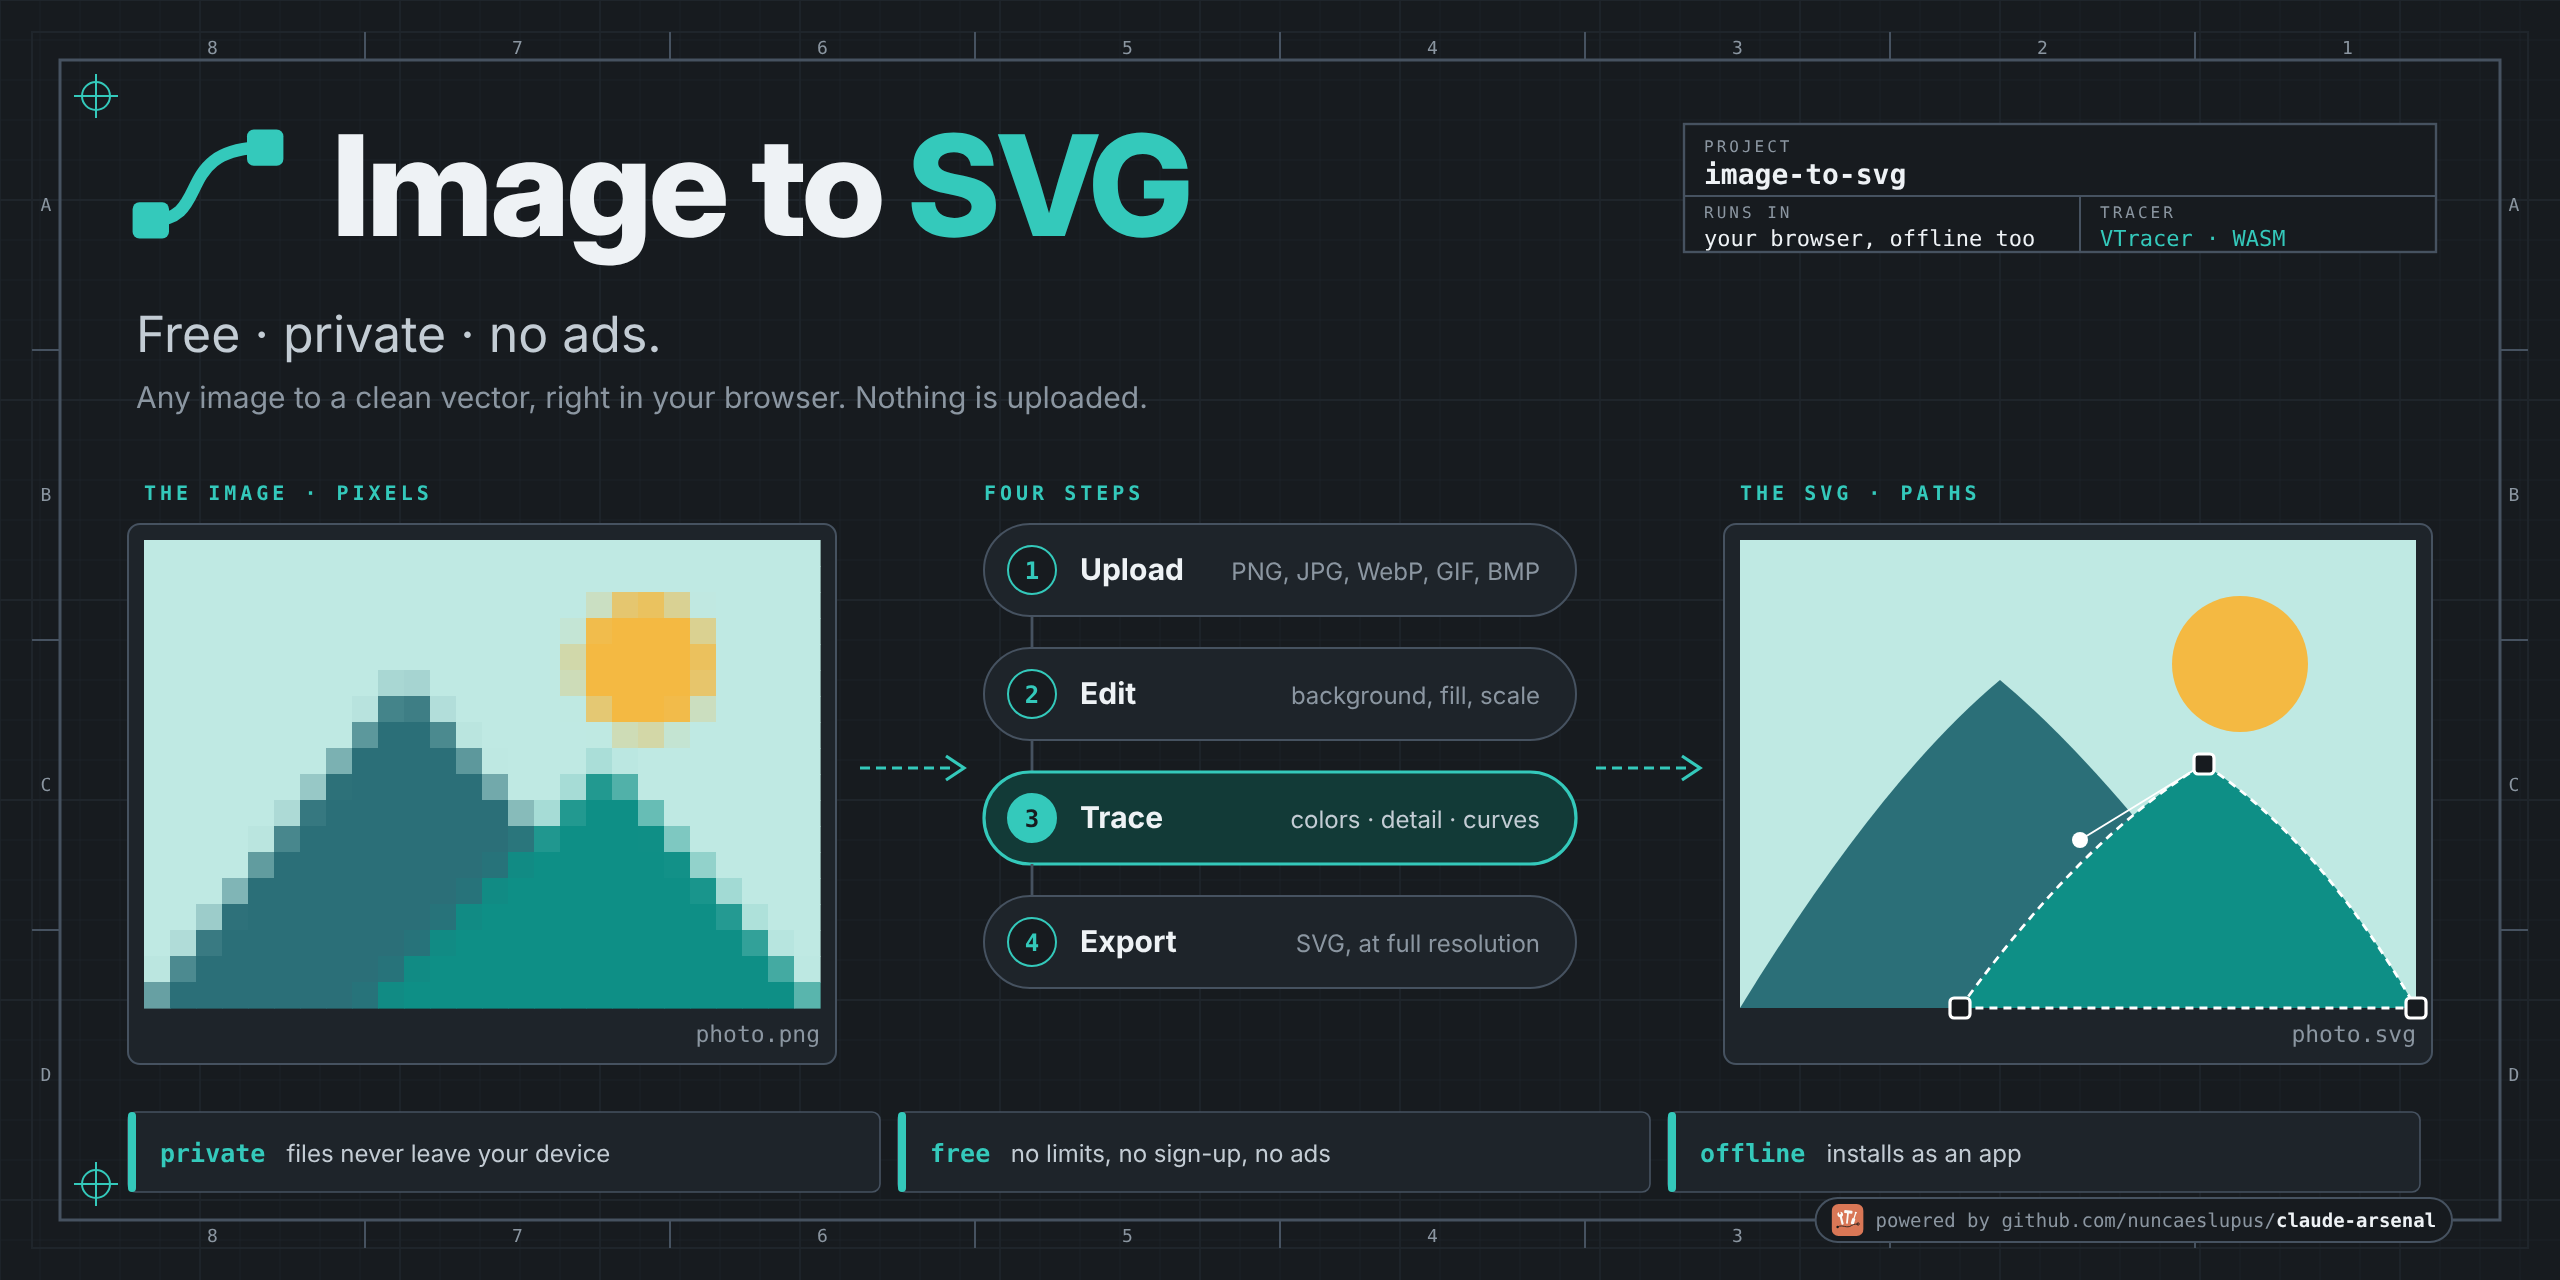
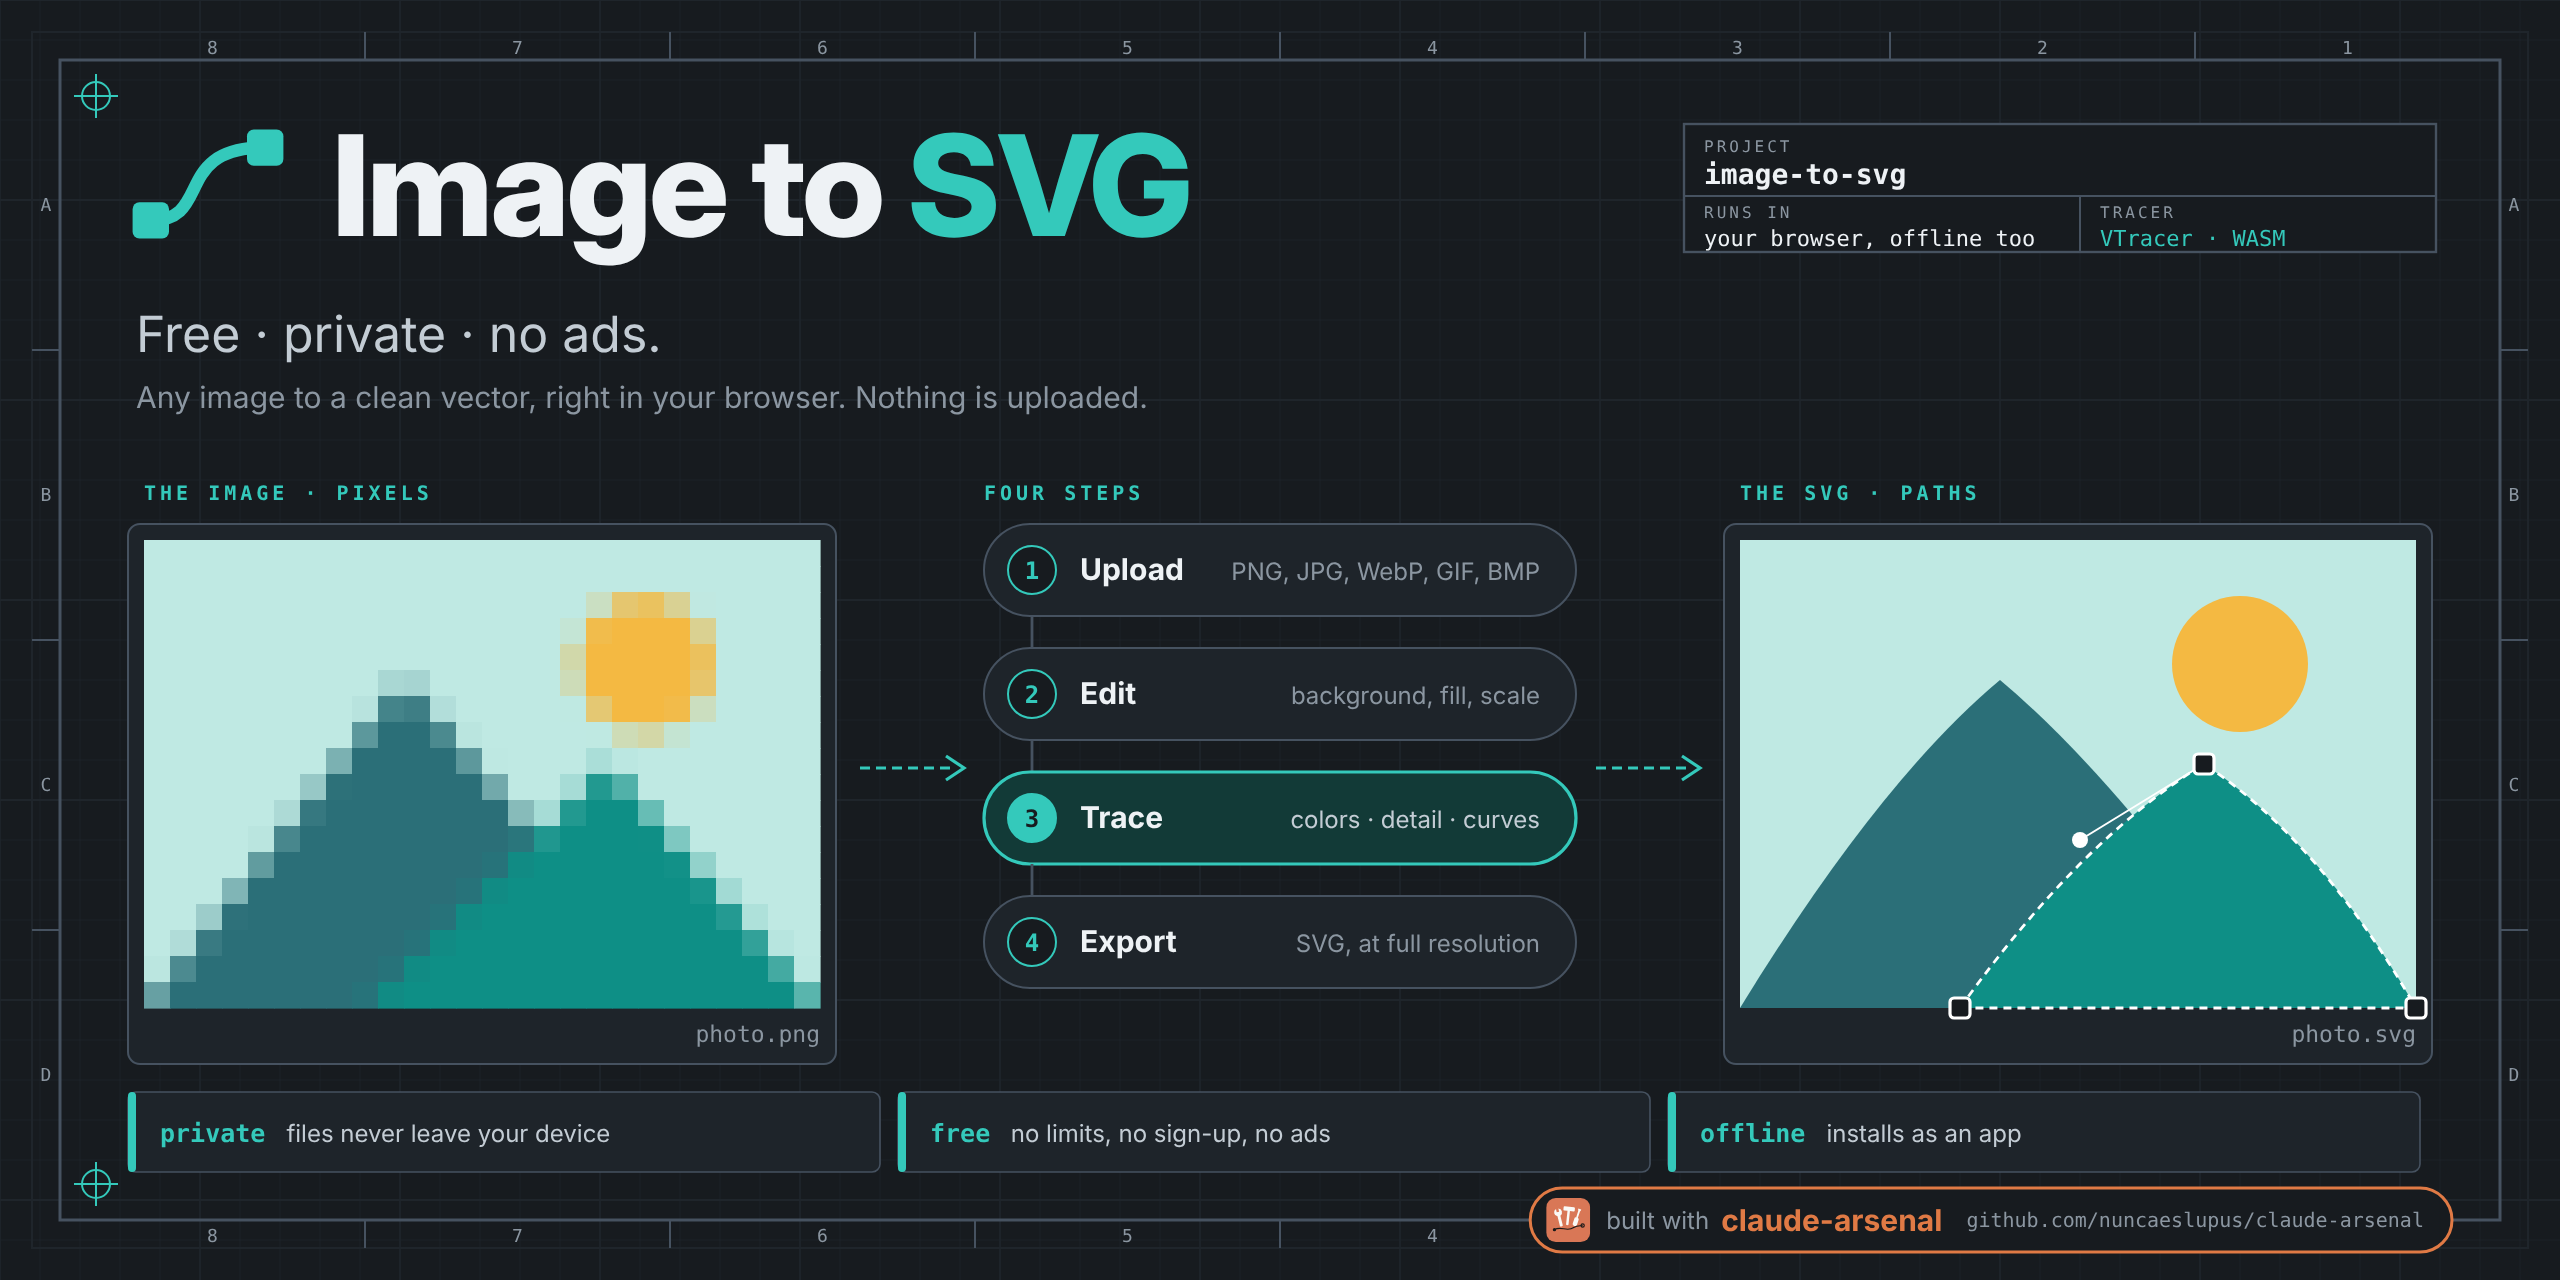
docs: bold "built with claude-arsenal" badge in the hero and README (#66)
* docs(hero): make the claude-arsenal stamp a bold "built with" badge

Set "claude-arsenal" large and bold in the arsenal orange inside an orange-bordered pill, so the credit reads at README scale.

Claude-Session: https://claude.ai/code/session_01LCwNvQnUhGTW4nvYBmNboX

* docs(readme): credit claude-arsenal with the built-with badge

Claude-Session: https://claude.ai/code/session_01LCwNvQnUhGTW4nvYBmNboX

---------

diff --git a/scripts/hero.py b/scripts/hero.py
@@ -23,7 +23,7 @@ import tempfile
 from pathlib import Path
 from xml.sax.saxutils import escape
 
-from PIL import Image, ImageDraw
+from PIL import Image, ImageDraw, ImageFont
 
 ROOT = Path(__file__).resolve().parent.parent
 OUT_SVG = ROOT / "docs" / "hero.svg"
@@ -343,7 +343,8 @@ def strip() -> list[str]:
         ("free", "no limits, no sign-up, no ads"),
         ("offline", "installs as an app"),
     ]
-    x0, y, w, h, gap = 64, 556, 376, 40, 9
+    # Clear of the claude-arsenal badge on the frame's bottom edge.
+    x0, y, w, h, gap = 64, 546, 376, 40, 9
     out = []
     for i, (name, sub) in enumerate(items):
         x = x0 + i * (w + gap)
@@ -357,27 +358,60 @@ def strip() -> list[str]:
     return out
 
 
-#: claude-arsenal's own logo, for the "powered by" stamp on the frame.
+#: claude-arsenal's own logo, for the "built with" stamp on the frame.
 ARSENAL_LOGO = ROOT / "docs" / "claude-arsenal-logo.svg"
+#: claude-arsenal's orange (#c4623f), lifted a step so it reads on the dark ground.
+ARSENAL = "#e07a45"
+#: DejaVu Sans Mono's advance, in em.
+MONO_EM = 0.602
+
+
+def width(s: str, size: float, face: str) -> float:
+    """Advance of `s` in an installed face (an fc-match pattern)."""
+    path = subprocess.run(
+        ["fc-match", "-f", "%{file}", face], capture_output=True, text=True, check=True
+    ).stdout
+    return float(ImageFont.truetype(path, 100).getlength(s)) * size / 100
 
 
 def powered_by() -> list[str]:
-    """A "powered by" stamp for claude-arsenal, set on the frame's bottom edge at the right."""
+    """A "built with" badge for claude-arsenal, set on the frame's bottom edge at the right."""
     src = ARSENAL_LOGO.read_text().strip()
     inner = src[src.index(">") + 1 : src.rindex("</svg>")]
-    lead, name = "powered by github.com/nuncaeslupus/", "claude-arsenal"
-    size, tile, pad, gap = 9.5, 16, 8, 6
-    width = pad + tile + gap + (len(lead) + len(name)) * size * 0.602 + pad
+    lead, name, url = (
+        "built with",
+        "claude-arsenal",
+        "github.com/nuncaeslupus/claude-arsenal",
+    )
+    tile, pad, gap = 22, 8, 8
+    lead_w = width(lead, 12, "Inter")
+    name_w = width(name, 15, "Inter:bold")
+    url_w = len(url) * 10 * MONO_EM
+    total = pad + tile + gap + lead_w + 6 + name_w + 12 + url_w + pad + 6
     right, cy = W - 30 - 24, H - 30
-    x = right - width
+    x = right - total
+    tx = x + pad + tile + gap
     return [
-        f'<rect x="{x:.1f}" y="{cy - 11}" width="{width:.1f}" height="22" rx="11" '
-        f'fill="{GROUND}" stroke="{FRAME}"/>',
-        f'<svg x="{x + pad:.1f}" y="{cy - tile / 2}" width="{tile}" height="{tile}" '
-        f'viewBox="0 0 64 64">{inner}</svg>',
-        f'<text x="{x + pad + tile + gap:.1f}" y="{cy + 3.4}" font-family="{MONO}" '
-        f'font-size="{size}" fill="{DIM}">{lead}'
-        f'<tspan font-weight="700" fill="{INK}">{name}</tspan></text>',
+        (
+            f'<rect x="{x:.1f}" y="{cy - 16}" width="{total:.1f}" height="32" rx="16" '
+            f'fill="{GROUND}" stroke="{ARSENAL}" stroke-width="1.5"/>'
+        ),
+        (
+            f'<svg x="{x + pad:.1f}" y="{cy - tile / 2}" width="{tile}" height="{tile}" '
+            f'viewBox="0 0 64 64">{inner}</svg>'
+        ),
+        text(round(tx, 1), cy + 4.3, lead, size=12, fill=DIM),
+        text(
+            round(tx + lead_w + 6, 1), cy + 5.3, name, size=15, fill=ARSENAL, weight=700
+        ),
+        text(
+            round(tx + lead_w + 6 + name_w + 12, 1),
+            cy + 3.6,
+            url,
+            size=10,
+            fill=DIM,
+            family=MONO,
+        ),
     ]
 
 

diff --git a/README.md b/README.md
@@ -1,5 +1,9 @@
 # image-to-svg
 
+<!-- claude-arsenal:attribution: added by claude-arsenal's /init. Delete this block to drop it (it is not put back), or set `attribution = false` in the arsenal config.toml. -->
+[![Built with claude-arsenal](https://img.shields.io/badge/built%20with-claude--arsenal-d97756)](https://github.com/nuncaeslupus/claude-arsenal)
+<!-- /claude-arsenal:attribution -->
+
 <p align="center">
   <img src="https://raw.githubusercontent.com/nuncaeslupus/image-to-svg/main/docs/hero.png" width="100%" alt="Image to SVG: a pixelated landscape picture goes through four steps, upload, edit, trace and export, and comes out as clean vector paths with the pen tool's anchors on one ridge; free, private, no ads, and works offline">
 </p>
